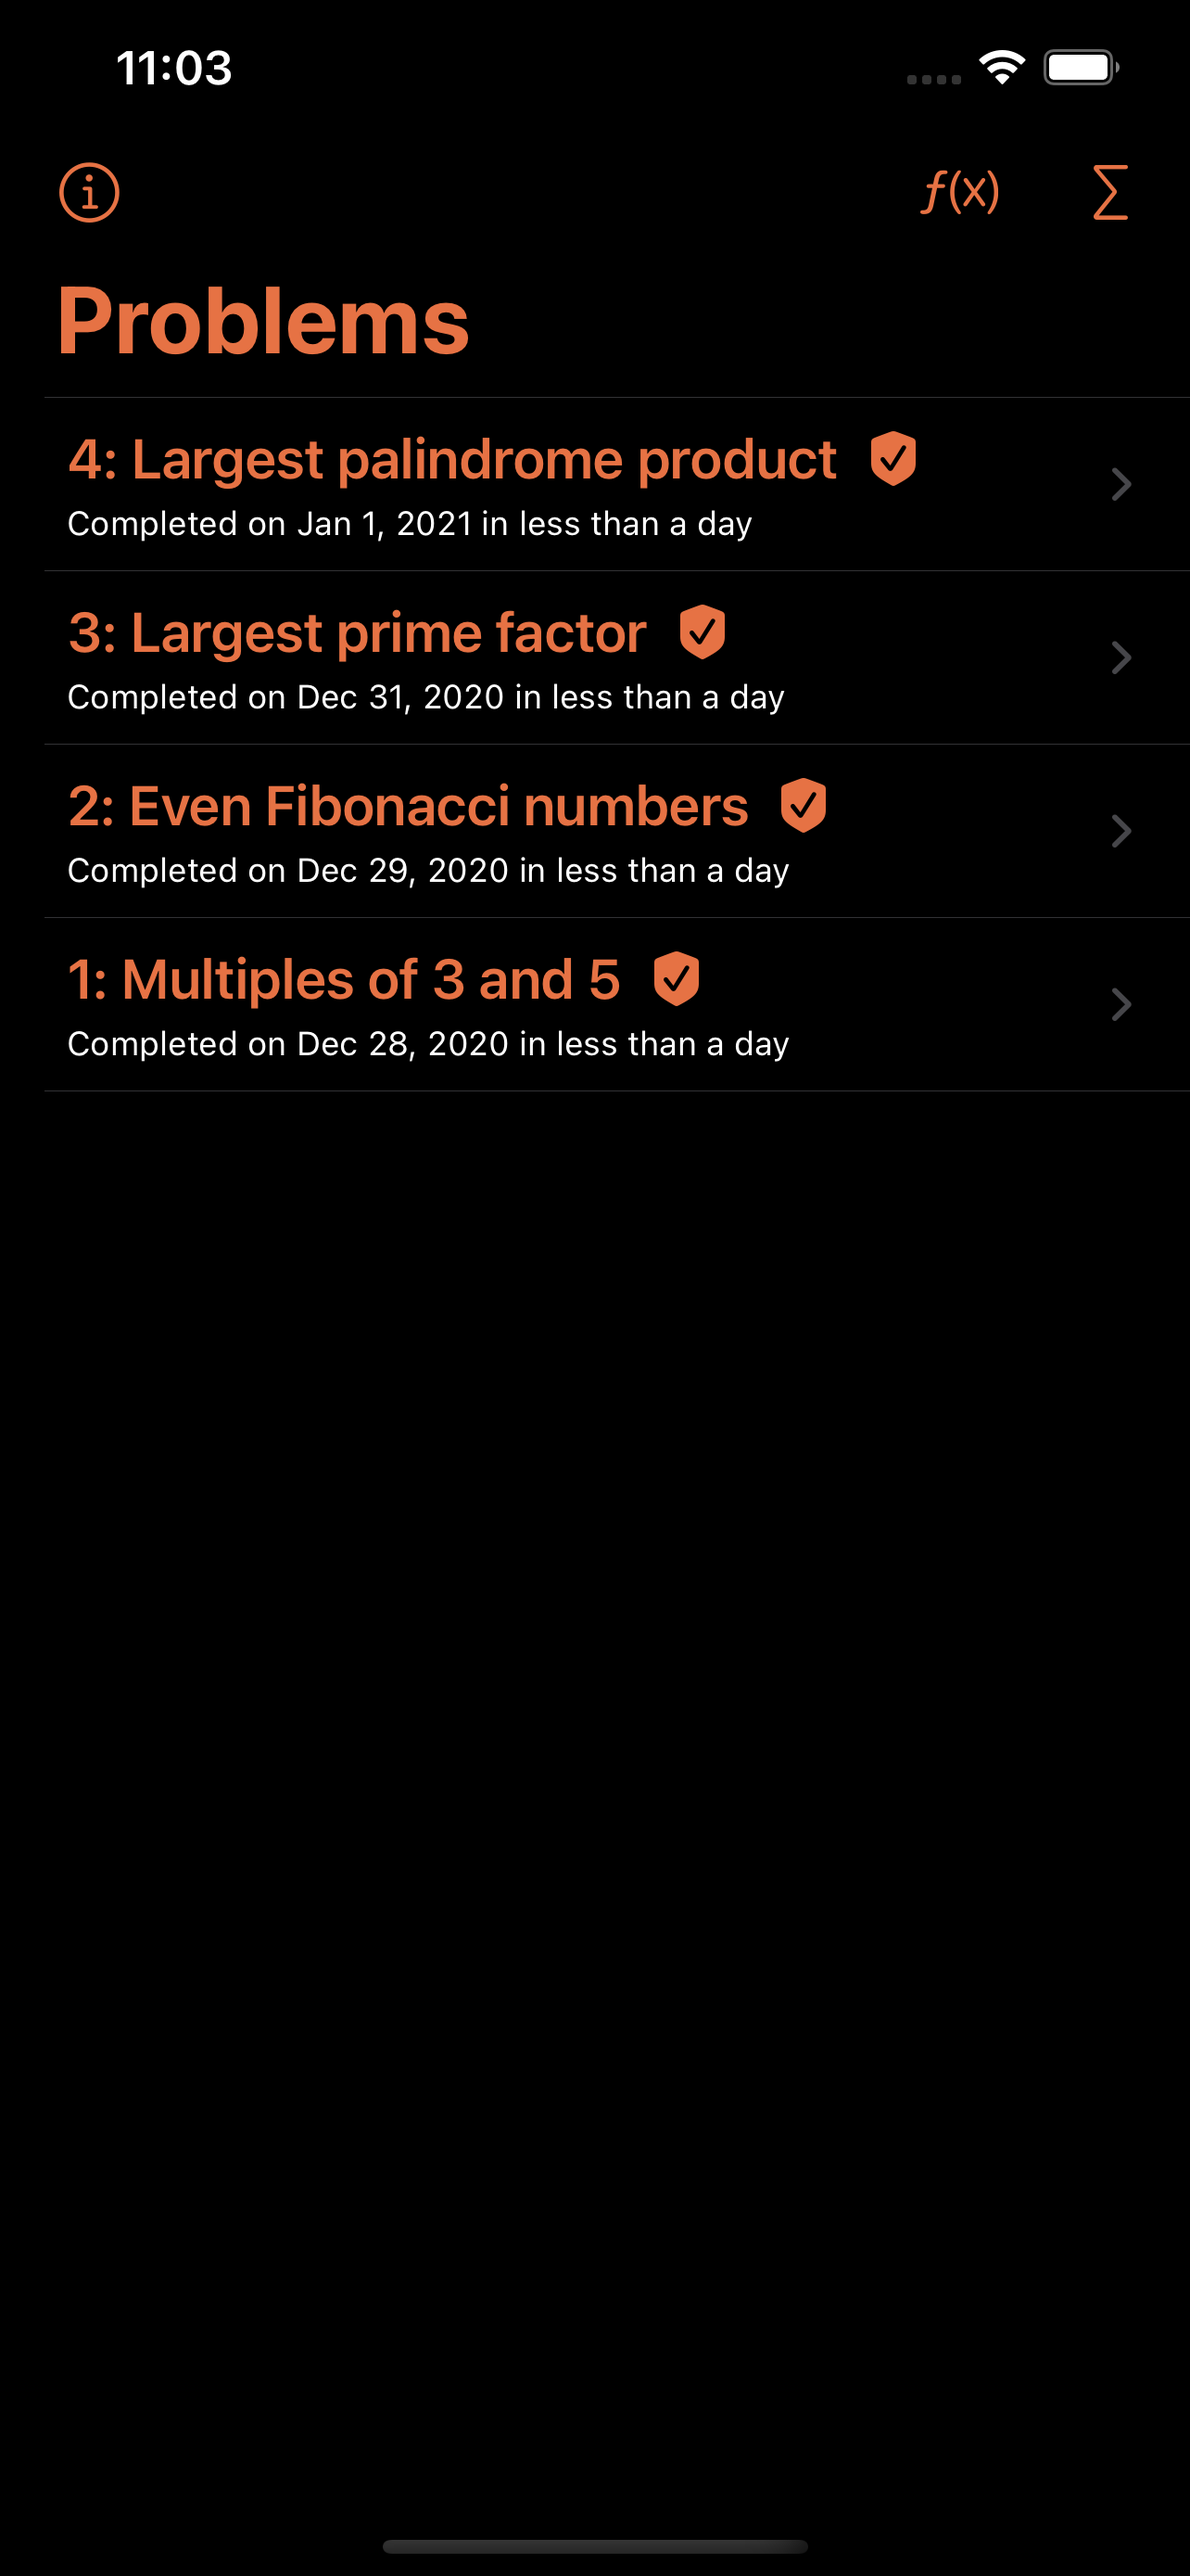
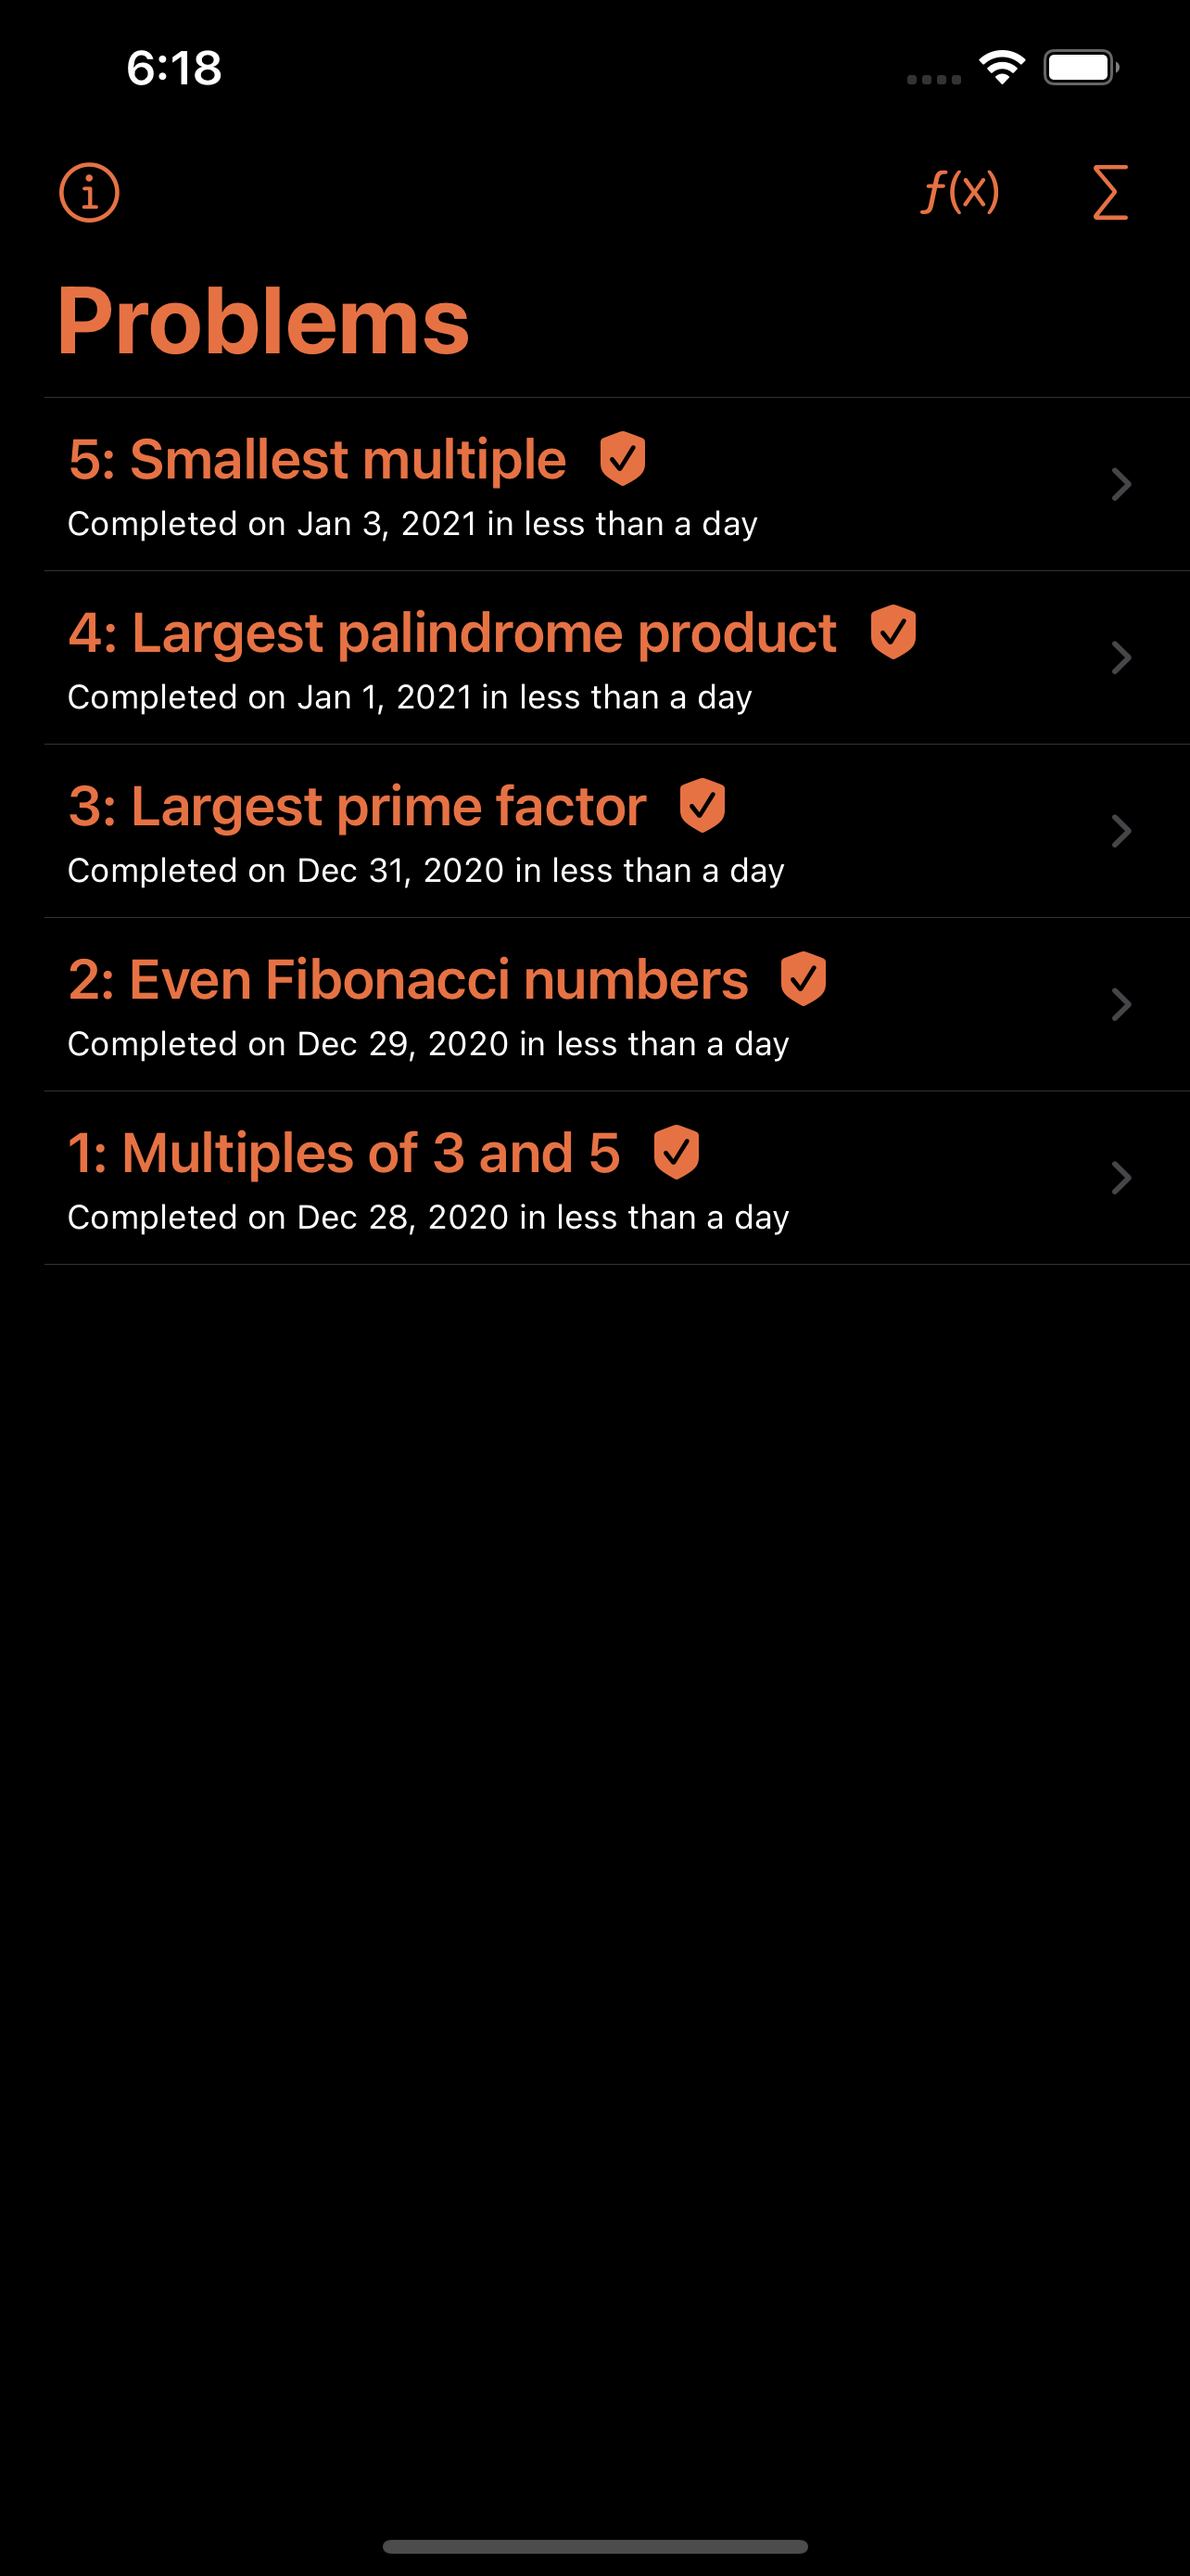
Problem 5 Complete (#8)
* Problem 5 Complete

* Uploaded solution to forum

diff --git a/SyEuler/Problems/Problem5Op.swift b/SyEuler/Problems/Problem5Op.swift
@@ -1,0 +1,128 @@
+//
+//  Problem5Op.swift
+//  SyEuler
+//
+//  Created by Wayne Mock on 1/3/21.
+//
+
+import Foundation
+
+class Problem5Op: ProblemIntOp {
+	/**
+	Returns the smallest multiple made from the sequence of 1 - `target`.
+
+	This implementation relies on using prime factors to generate the smallest multile,
+	aka least common multiple.
+
+	The least common multiple is the product of multiplying the highest power of each
+	prime factor together of all the numbers in the sequence.
+
+	Reference:
+	https://en.m.wikipedia.org/wiki/Least_common_multiple
+
+	- Parameter target: The target number to consider.
+	- Returns: The smallest multiple, or `nil` if cancelled before completion.
+	*/
+	override func compute(target: Int) -> IntAnswer? {
+		guard target > 0 else { return IntAnswer(error: "Must be > 0")}
+		var primes = [Int:Int]() // keep track of each prime and its largest power
+		for x in 1...target {
+			primeFactors(of: x)?.forEach({ (prime, power) in
+				// Have we seen this prime?
+				if let currentPower = primes[prime] {
+					// Yes, then store it if its power is greater than the current
+					if currentPower < power {
+						primes[prime] = power
+					}
+				} else {
+					// No, then just store the power
+					primes[prime] = power
+				}
+				report(progress: Double(x) / Double(target))
+			})
+		}
+		// Compute the answer by raising each prime to the related power
+		var answer = 1
+		var overflow = false
+		primes.forEach { (prime, count) in
+			// This problem can overflow an Int very quickly, so watch out for it
+			let result = answer.multipliedReportingOverflow(by: pow(prime, count))
+			if result.overflow {
+				overflow = true
+			} else {
+				answer = result.partialValue
+			}
+		}
+		return overflow
+			? IntAnswer(error: "Result overflows Int.max")
+			: IntAnswer(value: answer, details: details(from: primes))
+	}
+
+	/**
+	Returns the  prime factors and related power of `target`.
+
+	Uses Wheel Factorization to determine all the factors of `target`.
+
+	See this Wikipedia article for more details:
+	https://en.m.wikipedia.org/wiki/Wheel_factorization
+
+	- Parameter target: The target number.
+	- Returns: A dictionary of  prime factors and their powers, or `nil` if cancelled before completion.
+	*/
+	func primeFactors(of target: Int) -> [Int:Int]? {
+		var factors = [Int]()
+		var n = target
+		[2, 3, 5].forEach { factor in
+			while n % factor == 0 {
+				factors.append(factor)
+				n /= factor
+			}
+		}
+		var k = 7, i = 0
+		while k * k <= n {
+			if n % k == 0 {
+				factors.append(k)
+				n /= k
+			} else {
+				k += inc[i]
+				i = (i + 1) % inc.count
+			}
+			if isCancelled {
+				return nil
+			}
+		}
+		/// n == 1 when `target` was a prime number
+		if n > 1 {
+			// n is our largest prime factor
+			factors.append(n)
+		}
+		var primes = [Int:Int]()
+		factors.forEach { factor in
+			let power = primes[factor] ?? 0
+			primes[factor] = power + 1
+		}
+		return primes
+	}
+
+	/**
+	Retruns all the prime factors and powers as a string.
+
+	- Parameter primes: The dictionary of primes and their powers.
+	- Returns: A the prime factors as a string.
+	*/
+	func details(from primes: [Int:Int]) -> String {
+		var details = [String]()
+		primes.keys.sorted().forEach { prime in
+			let power = primes[prime] ?? 1
+			if power == 1 {
+				details.append("\(prime)")
+			} else {
+				details.append("\(prime)^\(power)")
+			}
+		}
+		return details.joined(separator: " * ")
+	}
+
+	/// Increments for finding the next prime.
+	let inc = [4, 2, 4, 2, 4, 6, 2, 6]
+}

diff --git a/SyEuler/Supporting/Playground.playground/Contents.swift b/SyEuler/Supporting/Playground.playground/Contents.swift
@@ -1,0 +1,95 @@
+// Here's my solution in Swift. Just copy it into a Playground and press play.
+
+import Foundation
+
+/**
+Returns the smallest multiple made from the sequence of 1...`target`.
+
+This implementation relies on using prime factors to generate the smallest multiple,
+aka least common multiple.
+
+The least common multiple is the product of multiplying the highest power of each
+prime factor together of all the numbers in the sequence.
+
+Reference:
+https://en.m.wikipedia.org/wiki/Least_common_multiple
+
+- Parameter target: The target number to consider.
+- Returns: The smallest multiple
+*/
+func compute(target: Int) -> Int {
+	var primes = [Int:Int]() // keep track of each prime and its largest power
+	for x in 1...target {
+		primeFactors(of: x).forEach({ (prime, power) in
+			// Have we seen this prime?
+			if let currentPower = primes[prime] {
+				// Yes, then store it if its power is greater than the current
+				if currentPower < power {
+					primes[prime] = power
+				}
+			} else {
+				// No, then just store the power
+				primes[prime] = power
+			}
+		})
+	}
+	// Compute the answer by raising each prime to the related power
+	var answer = 1
+	primes.forEach { (prime, count) in
+		answer *= pow(prime, count)
+	}
+	return answer
+}
+
+/**
+Returns the  prime factors and related power of `target`.
+
+Uses Wheel Factorization to determine all the factors of `target`.
+
+See this Wikipedia article for more details:
+https://en.m.wikipedia.org/wiki/Wheel_factorization
+
+- Parameter target: The target number.
+- Returns: A dictionary of  prime factors and their powers, or `nil` if cancelled before completion.
+*/
+func primeFactors(of target: Int) -> [Int:Int] {
+	var factors = [Int]()
+	var n = target
+	[2, 3, 5].forEach { factor in
+		while n % factor == 0 {
+			factors.append(factor)
+			n /= factor
+		}
+	}
+	var k = 7, i = 0
+	while k * k <= n {
+		if n % k == 0 {
+			factors.append(k)
+			n /= k
+		} else {
+			k += inc[i]
+			i = (i + 1) % inc.count
+		}
+	}
+	/// n == 1 when `target` was a prime number
+	if n > 1 {
+		// n is our largest prime factor
+		factors.append(n)
+	}
+	var primes = [Int:Int]()
+	factors.forEach { factor in
+		let power = primes[factor] ?? 0
+		primes[factor] = power + 1
+	}
+	return primes
+}
+
+/// Increments for finding the next prime.
+let inc = [4, 2, 4, 2, 4, 6, 2, 6]
+
+func pow(_ lhs: Int, _ rhs: Int) -> Int {
+	return Int(pow(Double(lhs), Double(rhs)))
+}
+
+compute(target: 10)
+compute(target: 20)

diff --git a/SyEulerTests/Problem5Tests.swift b/SyEulerTests/Problem5Tests.swift
@@ -1,0 +1,84 @@
+//
+//  Problem5Tests.swift
+//  SyEulerTests
+//
+//  Created by Wayne Mock on 1/3/21.
+//
+
+import XCTest
+@testable import SyEuler
+
+class Problem5Tests: XCTestCase {
+
+	let problem = Problem5Op(inputs: []) { results in }
+
+	func testTarget0() throws {
+		let answer = problem.compute(target: 0)
+		XCTAssertEqual(answer?.value, nil)
+		XCTAssertEqual(answer?.details, nil)
+		XCTAssertEqual(answer?.error, "Must be > 0")
+	}
+
+	func testTarget1() throws {
+		let answer = problem.compute(target: 1)
+		XCTAssertEqual(answer?.value, 1)
+		XCTAssertEqual(answer?.details, "")
+		XCTAssertEqual(answer?.error, nil)
+	}
+
+	func testTarget4() throws {
+		let answer = problem.compute(target: 4)
+		XCTAssertEqual(answer?.value, 12)
+		XCTAssertEqual(answer?.details, "2^2 * 3")
+		XCTAssertEqual(answer?.error, nil)
+	}
+
+	func testTarget5() throws {
+		let answer = problem.compute(target: 5)
+		XCTAssertEqual(answer?.value, 60)
+		XCTAssertEqual(answer?.details, "2^2 * 3 * 5")
+		XCTAssertEqual(answer?.error, nil)
+	}
+
+	func testTarget6() throws {
+		let answer = problem.compute(target: 6)
+		XCTAssertEqual(answer?.value, 60)
+		XCTAssertEqual(answer?.details, "2^2 * 3 * 5")
+		XCTAssertEqual(answer?.error, nil)
+	}
+
+	func testTarget7() throws {
+		let answer = problem.compute(target: 7)
+		XCTAssertEqual(answer?.value, 420)
+		XCTAssertEqual(answer?.details, "2^2 * 3 * 5 * 7")
+		XCTAssertEqual(answer?.error, nil)
+	}
+
+	func testTarget8() throws {
+		let answer = problem.compute(target: 8)
+		XCTAssertEqual(answer?.value, 840)
+		XCTAssertEqual(answer?.details, "2^3 * 3 * 5 * 7")
+		XCTAssertEqual(answer?.error, nil)
+	}
+
+	func testTarget9() throws {
+		let answer = problem.compute(target: 9)
+		XCTAssertEqual(answer?.value, 2520)
+		XCTAssertEqual(answer?.details, "2^3 * 3^2 * 5 * 7")
+		XCTAssertEqual(answer?.error, nil)
+	}
+
+	func testTarget10() throws {
+		let answer = problem.compute(target: 10)
+		XCTAssertEqual(answer?.value, 2520)
+		XCTAssertEqual(answer?.details, "2^3 * 3^2 * 5 * 7")
+		XCTAssertEqual(answer?.error, nil)
+	}
+
+	func testTarget20() throws {
+		let answer = problem.compute(target: 20)
+		XCTAssertEqual(answer?.value, 232792560)
+		XCTAssertEqual(answer?.details, "2^4 * 3^2 * 5 * 7 * 11 * 13 * 17 * 19")
+		XCTAssertEqual(answer?.error, nil)
+	}
+}

diff --git a/SyEuler/Problems/Helpers/Problem5.swift b/SyEuler/Problems/Helpers/Problem5.swift
@@ -1,0 +1,28 @@
+//
+//  Problem5.swift
+//  SyEuler
+//
+//  Created by Wayne Mock on 1/3/21.
+//
+
+import Foundation
+
+class Problem5: Problem {
+	public override var id: Int { return 5 }
+	public override var title: String { return "Smallest multiple" }
+	public override var summary: String { return "What is the smallest positive number that is evenly divisible by all of the numbers from 1 to 20?" }
+	public override var defaultInput: String { return "20" }
+
+	public override var state: State { return .completed }
+	public override var startedAt: Date? { return Problem.dateFormatter.date(from: "Jan 3, 2021") }
+	public override var completedAt: Date? { return startedAt }
+
+	public override func getOp(inputs: [String], completion: @escaping ProblemOpCompletion) -> ProblemOp {
+		return Problem5Op(inputs: inputs, completion: completion)
+	}
+
+	public override var references: [ProblemReference] {[
+		ProblemReference(label: "Least common multiple", link: "https://en.m.wikipedia.org/wiki/Least_common_multiple"),
+		ProblemReference(label: "Wheel factorization", link: "https://en.m.wikipedia.org/wiki/Wheel_factorization"),
+	]}
+}

diff --git a/SyEuler/Views/Problems/ProblemList.swift b/SyEuler/Views/Problems/ProblemList.swift
@@ -72,7 +72,8 @@ struct ProblemList: View {
 struct ContentView_Previews: PreviewProvider {
     static var previews: some View {
 		ProblemList(problems: [
-			Problem3(),
+			Problem5(),
+			Problem4(),
 			Problem2(),
 			Problem1(),
 		])

diff --git a/SyEuler/Supporting/SyEulerApp.swift b/SyEuler/Supporting/SyEulerApp.swift
@@ -11,6 +11,7 @@ import SwiftUI
 @main
 struct SyEulerApp: App {
 	let problems = [
+		Problem5(),
 		Problem4(),
 		Problem3(),
 		Problem2(),
